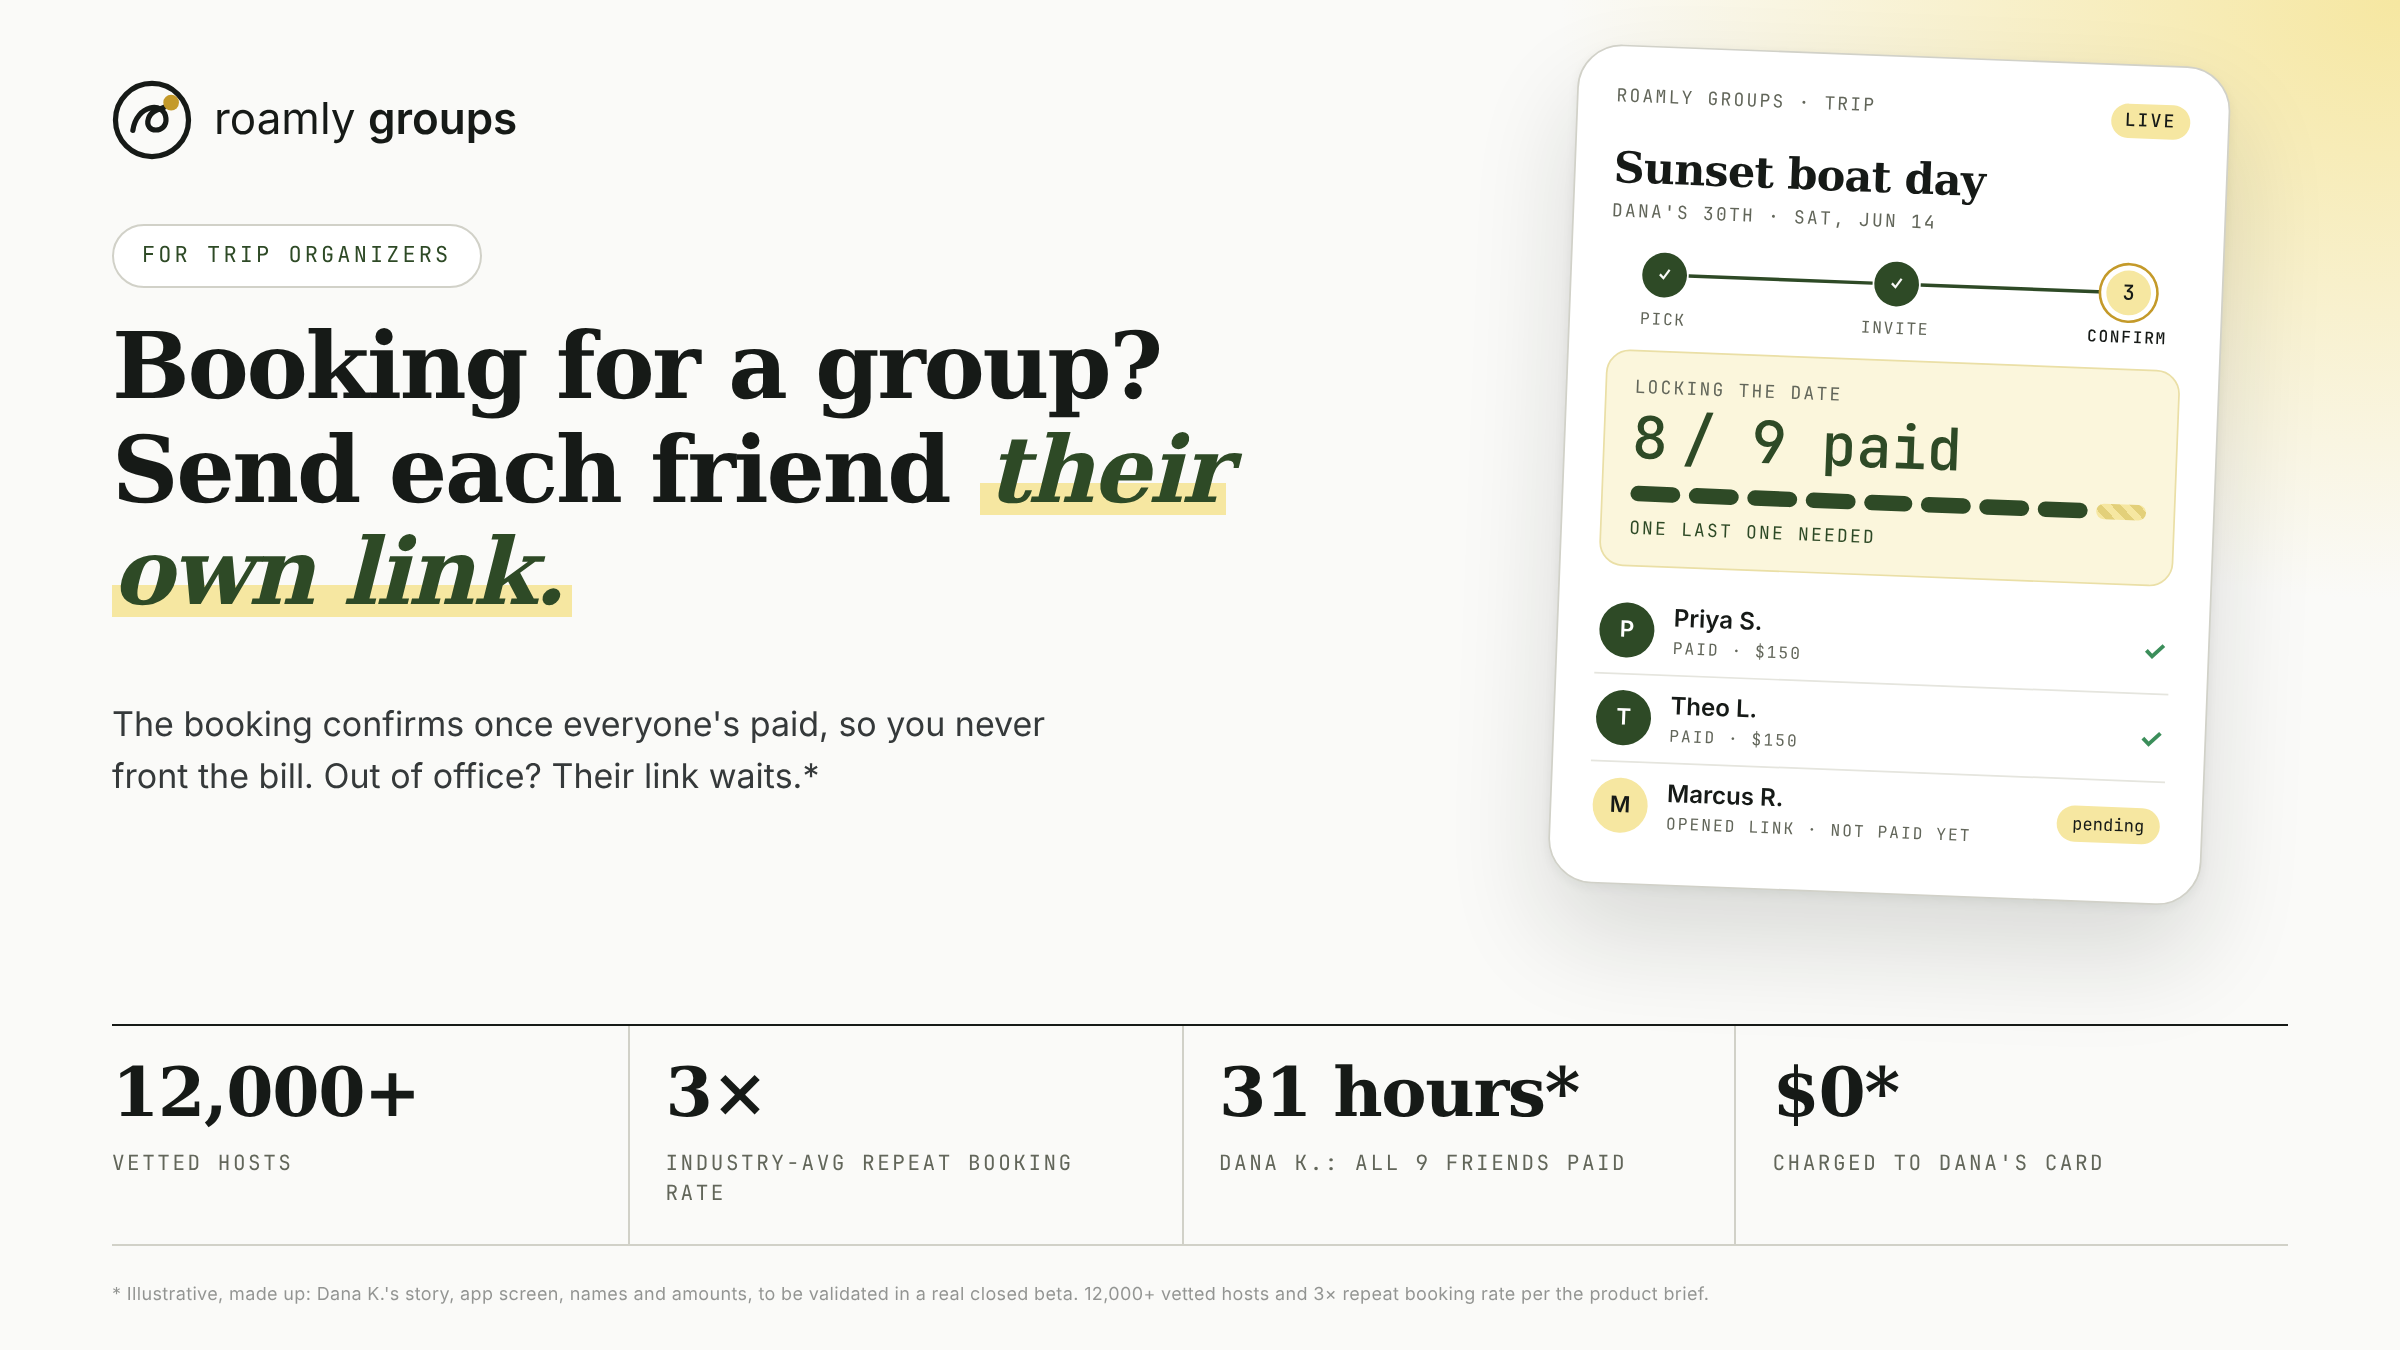
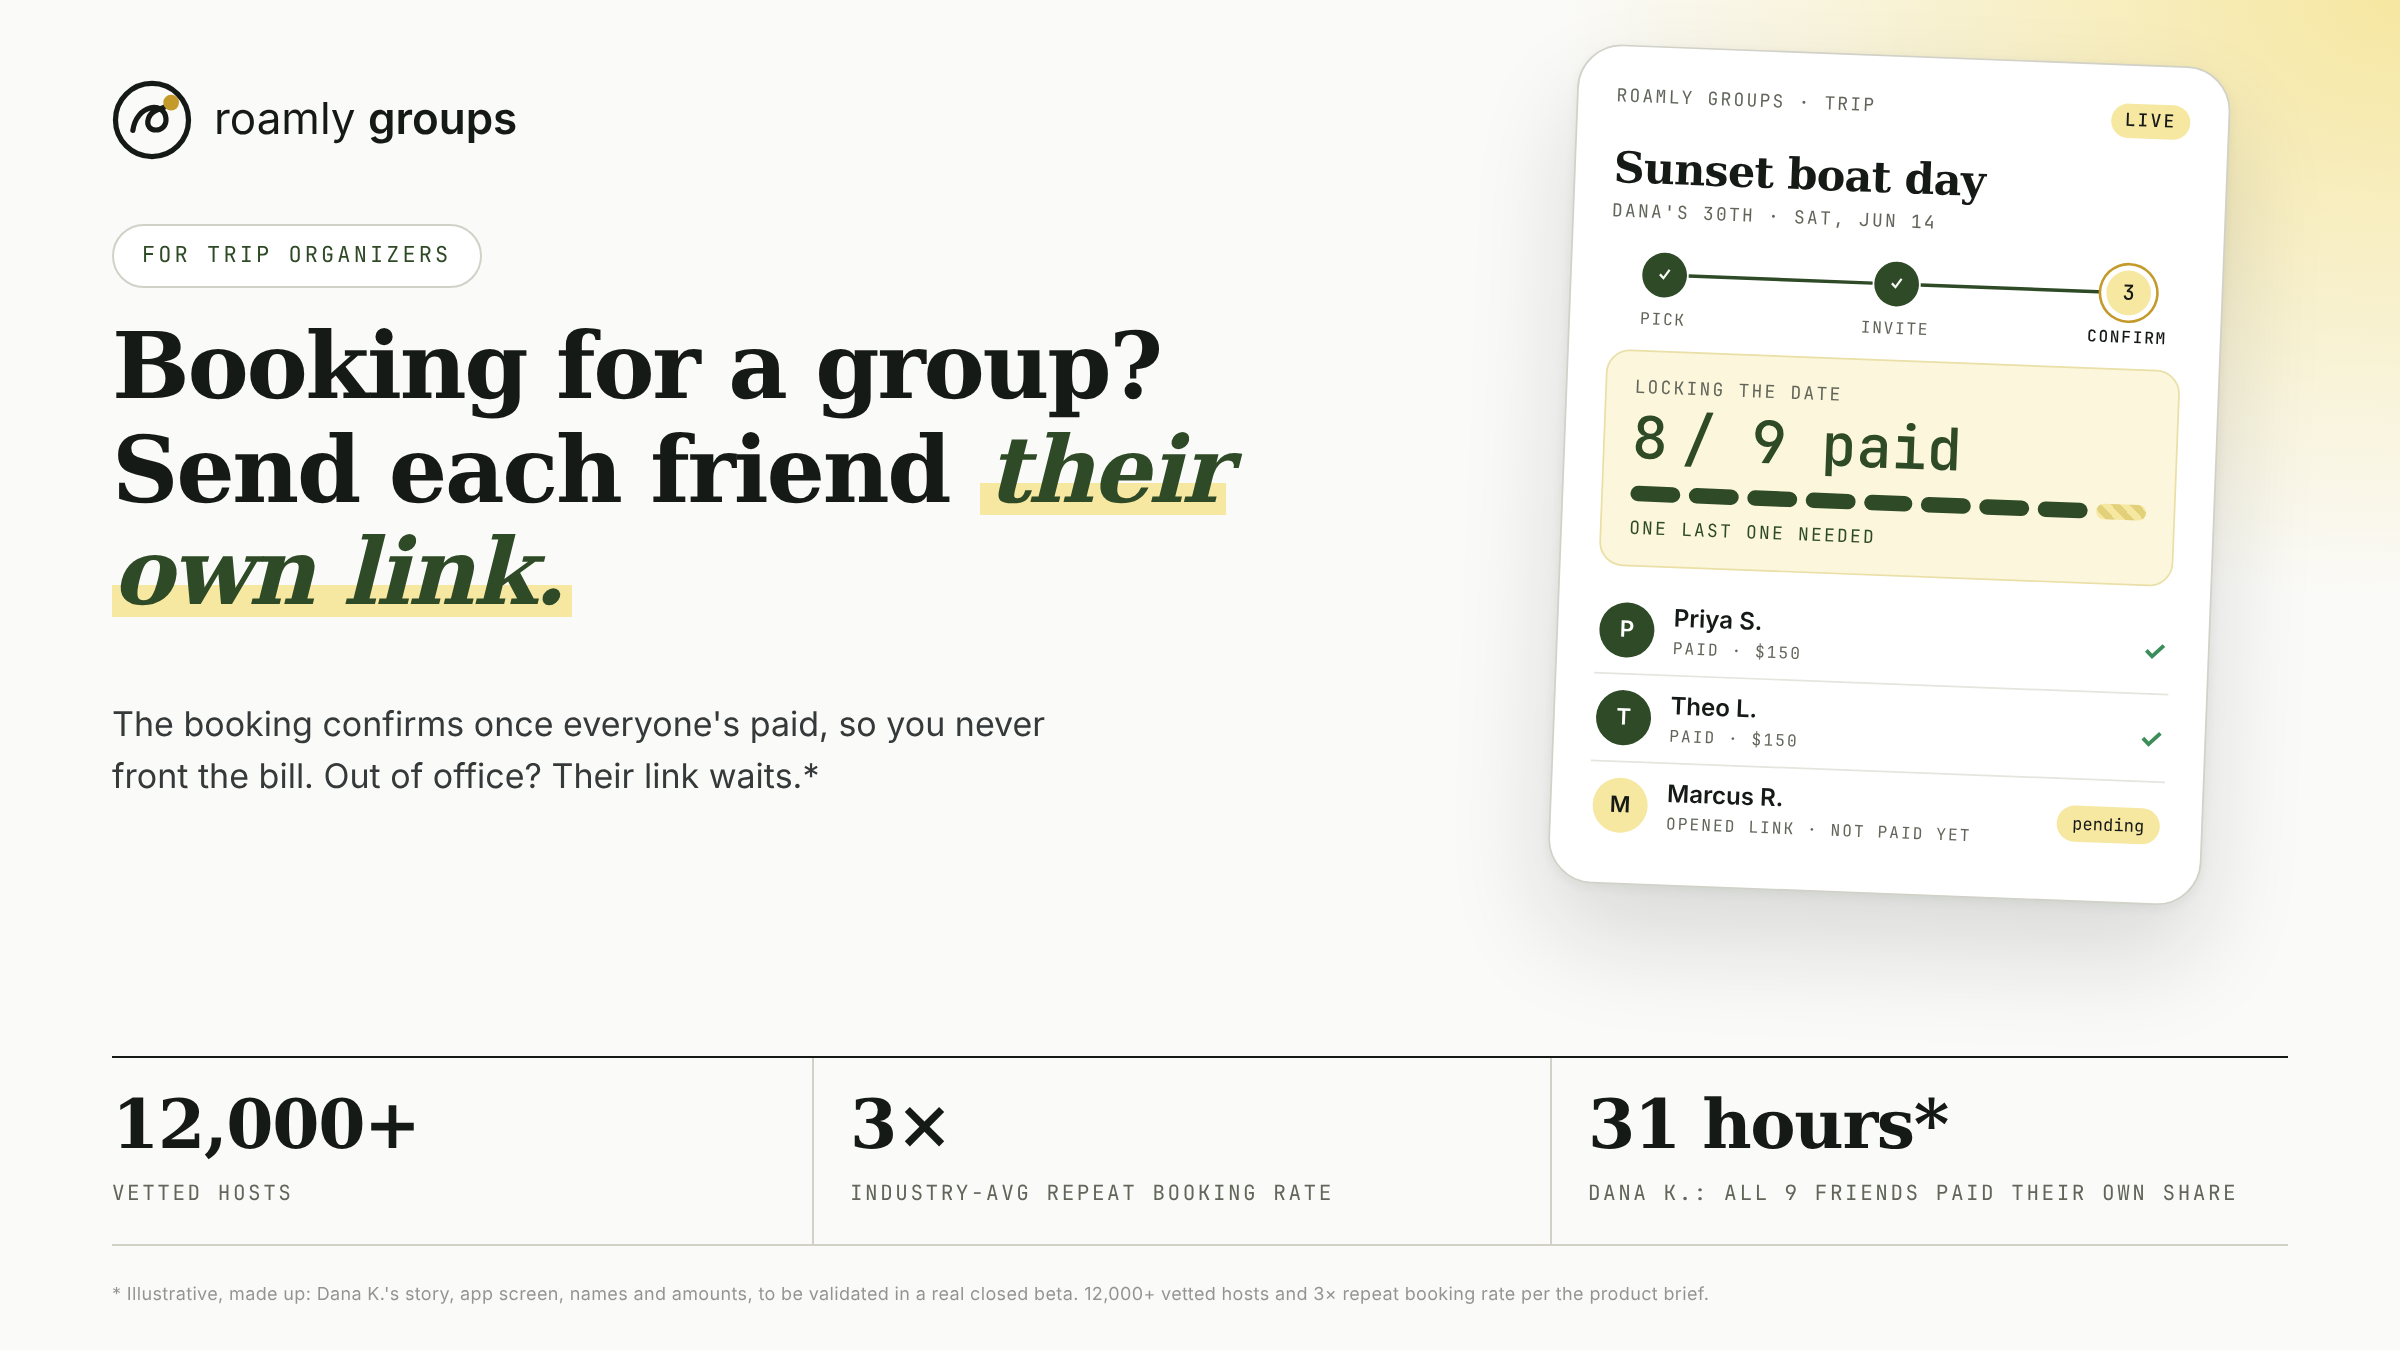
Drop $0 claim: three-cell stats bar, remove grid rendition
Claude-Session: https://claude.ai/code/session_01Mcvwe9c26M5886HpK6PARc

Changed region(s): [[0.4375, 0.7778, 0.9375, 0.9022], [0.0312, 0.7778, 0.1875, 0.9022], [0.2812, 0.7778, 0.4375, 0.9022]]

diff --git a/04-messaging/visual-asset-stats-bar.html b/04-messaging/visual-asset-stats-bar.html
@@ -56,4 +56,4 @@ body{background:radial-gradient(700px 500px at 100% 0%,#F6E7A1 0%,transparent 60
 <div class="ph-title">Sunset boat day</div><div class="mono tiny sub">DANA'S 30TH · SAT, JUN 14</div><div class="tk"><div class="col"><span class="n done">✓</span><em>Pick</em></div><span class="ln"></span><div class="col"><span class="n done">✓</span><em>Invite</em></div><span class="ln"></span><div class="col"><span class="n cur">3</span><em class="a">Confirm</em></div></div><div class="lock" style="margin-top:12px"><div class="mono tiny">LOCKING THE DATE</div><div class="big"><span class="mono">8</span><small class="mono">/ 9 paid</small></div><div class="seg"><i class="on"></i><i class="on"></i><i class="on"></i><i class="on"></i><i class="on"></i><i class="on"></i><i class="on"></i><i class="on"></i><i class="off"></i></div><div class="mono tiny hint">ONE LAST ONE NEEDED</div></div>
 <div class="row"><b class="av g">P</b><div><div class="nm">Priya S.</div><div class="mono tiny">PAID · $150</div></div><span class="ck">✓</span></div>
 <div class="row"><b class="av g">T</b><div><div class="nm">Theo L.</div><div class="mono tiny">PAID · $150</div></div><span class="ck">✓</span></div>
-<div class="row last"><b class="av b">M</b><div><div class="nm">Marcus R.</div><div class="mono tiny">OPENED LINK · NOT PAID YET</div></div><span class="wait">pending</span></div></div><div class="bar"><div class="cell"><b>12,000+</b><span>Vetted hosts</span></div><div class="cell"><b>3×</b><span>Industry-avg repeat booking rate</span></div><div class="cell"><b>31 hours*</b><span>Dana K.: all 9 friends paid</span></div><div class="cell"><b>$0*</b><span>Charged to Dana's card</span></div></div><div class="fine">* Illustrative, made up: Dana K.'s story, app screen, names and amounts, to be validated in a real closed beta. 12,000+ vetted hosts and 3× repeat booking rate per the product brief.</div></body></html>
+<div class="row last"><b class="av b">M</b><div><div class="nm">Marcus R.</div><div class="mono tiny">OPENED LINK · NOT PAID YET</div></div><span class="wait">pending</span></div></div><div class="bar"><div class="cell"><b>12,000+</b><span>Vetted hosts</span></div><div class="cell"><b>3×</b><span>Industry-avg repeat booking rate</span></div><div class="cell"><b>31 hours*</b><span>Dana K.: all 9 friends paid their own share</span></div></div><div class="fine">* Illustrative, made up: Dana K.'s story, app screen, names and amounts, to be validated in a real closed beta. 12,000+ vetted hosts and 3× repeat booking rate per the product brief.</div></body></html>
